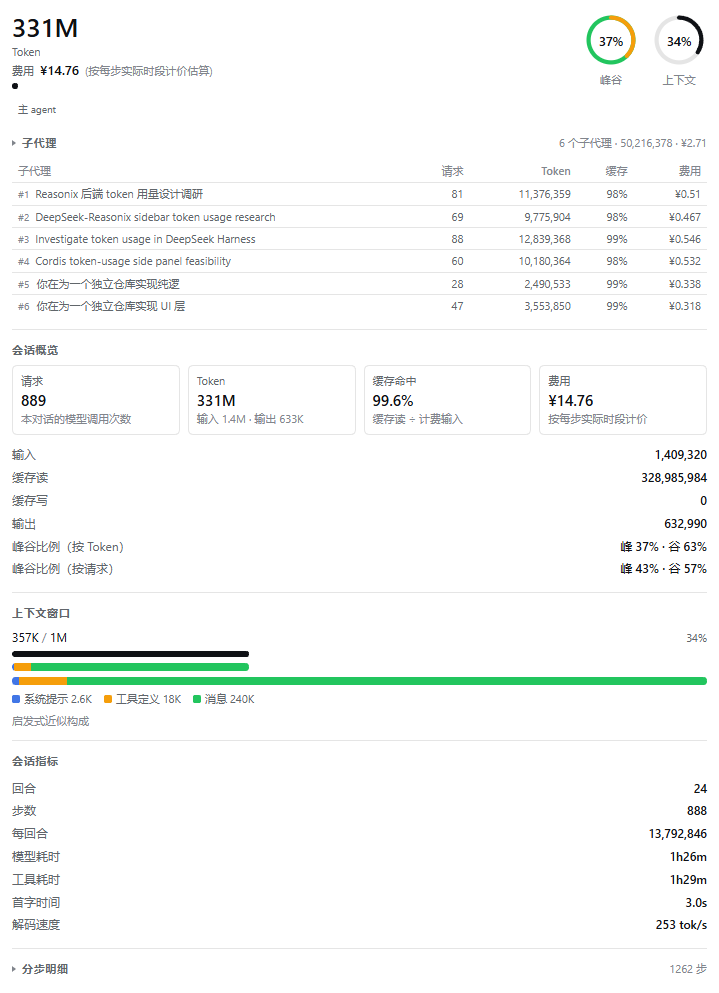
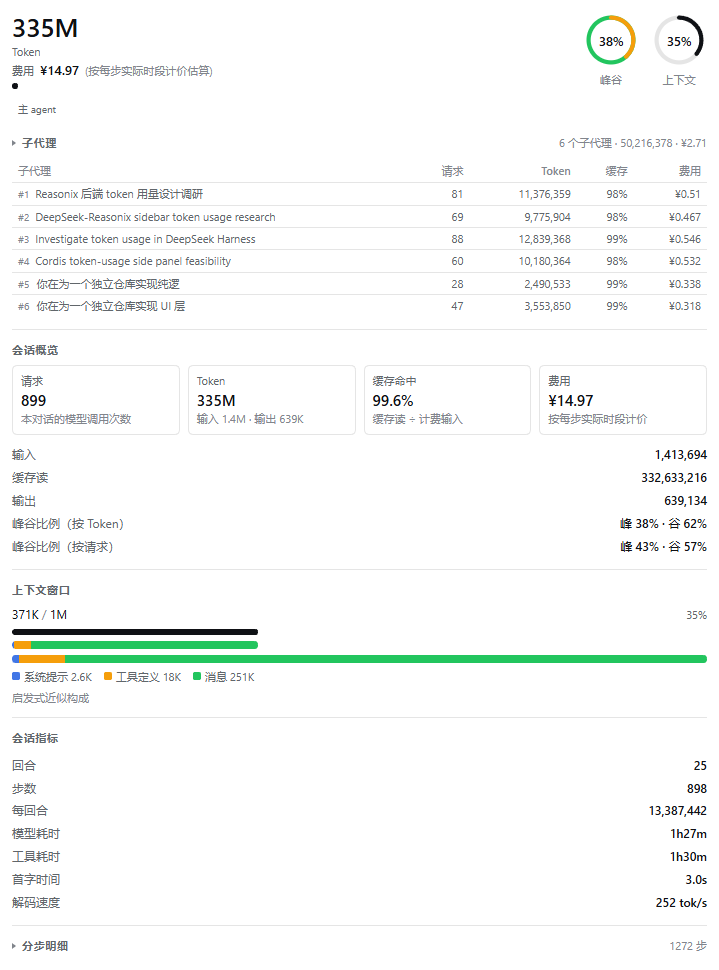
fix: hide the cache-write row when a provider reports none

diff --git a/dist/client.js b/dist/client.js
@@ -1,4 +1,4 @@
-/* dsh-usage-insights v0.9.2 — generated by scripts/build.mjs; do not edit. */
+/* dsh-usage-insights v0.9.3 — generated by scripts/build.mjs; do not edit. */
 window.__ModuleLoader__.load({
   id: "dsh-usage-insights",
   factory(require) {
@@ -2209,7 +2209,7 @@ function SessionPanel(props) {
       /* @__PURE__ */ (0, import_jsx_runtime4.jsxs)("div", { className: "dsu-rows", children: [
         /* @__PURE__ */ (0, import_jsx_runtime4.jsx)(Row, { label: t("label.input"), value: formatTokenCount(view.buckets.uncachedInputTokens) }),
         /* @__PURE__ */ (0, import_jsx_runtime4.jsx)(Row, { label: t("label.cacheRead"), value: formatTokenCount(view.buckets.cacheReadTokens) }),
-        /* @__PURE__ */ (0, import_jsx_runtime4.jsx)(Row, { label: t("label.cacheWrite"), value: formatTokenCount(view.buckets.cacheWriteTokens) }),
+        view.buckets.cacheWriteTokens > 0 && /* @__PURE__ */ (0, import_jsx_runtime4.jsx)(Row, { label: t("label.cacheWrite"), value: formatTokenCount(view.buckets.cacheWriteTokens) }),
         /* @__PURE__ */ (0, import_jsx_runtime4.jsx)(Row, { label: t("label.output"), value: formatTokenCount(view.buckets.outputTokens) }),
         view.bandShare !== null && /* @__PURE__ */ (0, import_jsx_runtime4.jsxs)(import_jsx_runtime4.Fragment, { children: [
           /* @__PURE__ */ (0, import_jsx_runtime4.jsx)(

diff --git a/src/client/SessionPanel.tsx b/src/client/SessionPanel.tsx
@@ -181,7 +181,12 @@ export function SessionPanel(props: SessionPanelProps): JSX.Element {
           <div className="dsu-rows">
             <Row label={t('label.input')} value={formatTokenCount(view.buckets.uncachedInputTokens)} />
             <Row label={t('label.cacheRead')} value={formatTokenCount(view.buckets.cacheReadTokens)} />
-            <Row label={t('label.cacheWrite')} value={formatTokenCount(view.buckets.cacheWriteTokens)} />
+            {/* DeepSeek bills misses as ordinary input and reports no cache
+                writes, so the row would read zero forever; show it only for a
+                provider that charges explicit cache creation. */}
+            {view.buckets.cacheWriteTokens > 0 && (
+              <Row label={t('label.cacheWrite')} value={formatTokenCount(view.buckets.cacheWriteTokens)} />
+            )}
             <Row label={t('label.output')} value={formatTokenCount(view.buckets.outputTokens)} />
             {view.bandShare !== null && (
               <>

diff --git a/README.md b/README.md
@@ -14,7 +14,7 @@
 
 ### 用量（当前对话）
 
-- **会话概览**：请求数、Token 总量、输入 / 缓存读 / 缓存写 / 输出四桶、缓存命中率、费用，以及峰谷比例（按 Token 与按请求各一行）。
+- **会话概览**：请求数、Token 总量、输入 / 缓存读 / 输出（缓存写仅在提供商上报显式缓存写入时显示）、缓存命中率、费用，以及峰谷比例（按 Token 与按请求各一行）。
 - **Token 显示**：会话概览的 Token 卡片（含其输入/输出提示）使用 `K` / `M` / `G` 紧凑单位；会话概览的其余行、会话指标、子代理明细与分步明细显示千分位精确整数（如 `275,123,456`）；页头总量、上下文窗口与用量汇总也使用紧凑单位，悬停数字可看到精确值。
 - **上下文窗口**：第一行显示已用 / 容量与占用百分比；第二行是按占用比例填充的进度条；第三行是「占用 + 构成」组合条（宽度为占用比例，内部按三色分段）；第四行是整窗构成条；条下是带颜色的图例与各段数值。
 - **峰谷圈图**：上下文圈图左侧另有一个圈图，绿色轨道表示空闲、橙色弧线表示高峰，中心显示高峰占比（按 Token）。
@@ -85,7 +85,7 @@ dsh web
 
 | 展示项 | 数据来源 | 说明 |
 |---|---|---|
-| 四桶 Token、缓存命中率 | `tokenUsage` 投影 | Provider 上报的精确计数，四个桶互不重叠 |
+| Token 桶、缓存命中率 | `tokenUsage` 投影 | Provider 上报的精确计数，各桶互不重叠；DeepSeek 不计量缓存写入，因此不显示该行 |
 | 上下文已用 / 容量 | `contextPressure` 投影 | 最近一次请求的 prompt 大小（或按会话增量投影）与模型容量 |
 | 上下文构成 | `contextBreakdown` 投影 | 启发式近似：系统提示 / 工具定义 / 消息，不是计费值 |
 | 回合、步数、模型/工具耗时、首字时间、解码速度 | `sessionStats` 投影 | 来自完整持久日志，翻页与压缩不影响 |

diff --git a/README.EN.md b/README.EN.md
@@ -17,9 +17,9 @@ The plugin adds two right-Sidebar pages.
 
 ### Usage (current conversation)
 
-- **Session overview**: request count, total tokens, the four disjoint buckets (input /
-  cache read / cache write / output), cache-hit rate, cost, and the peak/off-peak share
-  (one row by tokens, one by requests).
+- **Session overview**: request count, total tokens, input / cache read / output bucket rows
+  (the cache-write row appears only when a provider reports explicit cache creation),
+  cache-hit rate, cost, and the peak/off-peak share (one row by tokens, one by requests).
 - **Token figures**: the overview's Token card (including its input/output hint) uses compact
   `K` / `M` / `G` units; the remaining overview rows, session metrics, subagent detail and
   request ledger show exact grouped integers (for example `275,123,456`); the header total,
@@ -126,7 +126,7 @@ the composer button is the reliable entry.
 
 | Figure | Source | Notes |
 |---|---|---|
-| Four token buckets, cache-hit rate | `tokenUsage` projection | Exact provider-reported counts; the buckets are disjoint |
+| Token buckets, cache-hit rate | `tokenUsage` projection | Exact provider-reported counts; the buckets are disjoint. DeepSeek reports no cache writes, so that row is hidden |
 | Context used / capacity | `contextPressure` projection | Prompt size of the newest request (or the next-request projection) and model capacity |
 | Context composition | `contextBreakdown` projection | Heuristic system / tools / messages estimate, not billed tokens |
 | Turns, steps, model/tool time, first token, decode speed | `sessionStats` projection | Whole durable log; paging and compaction do not change it |
